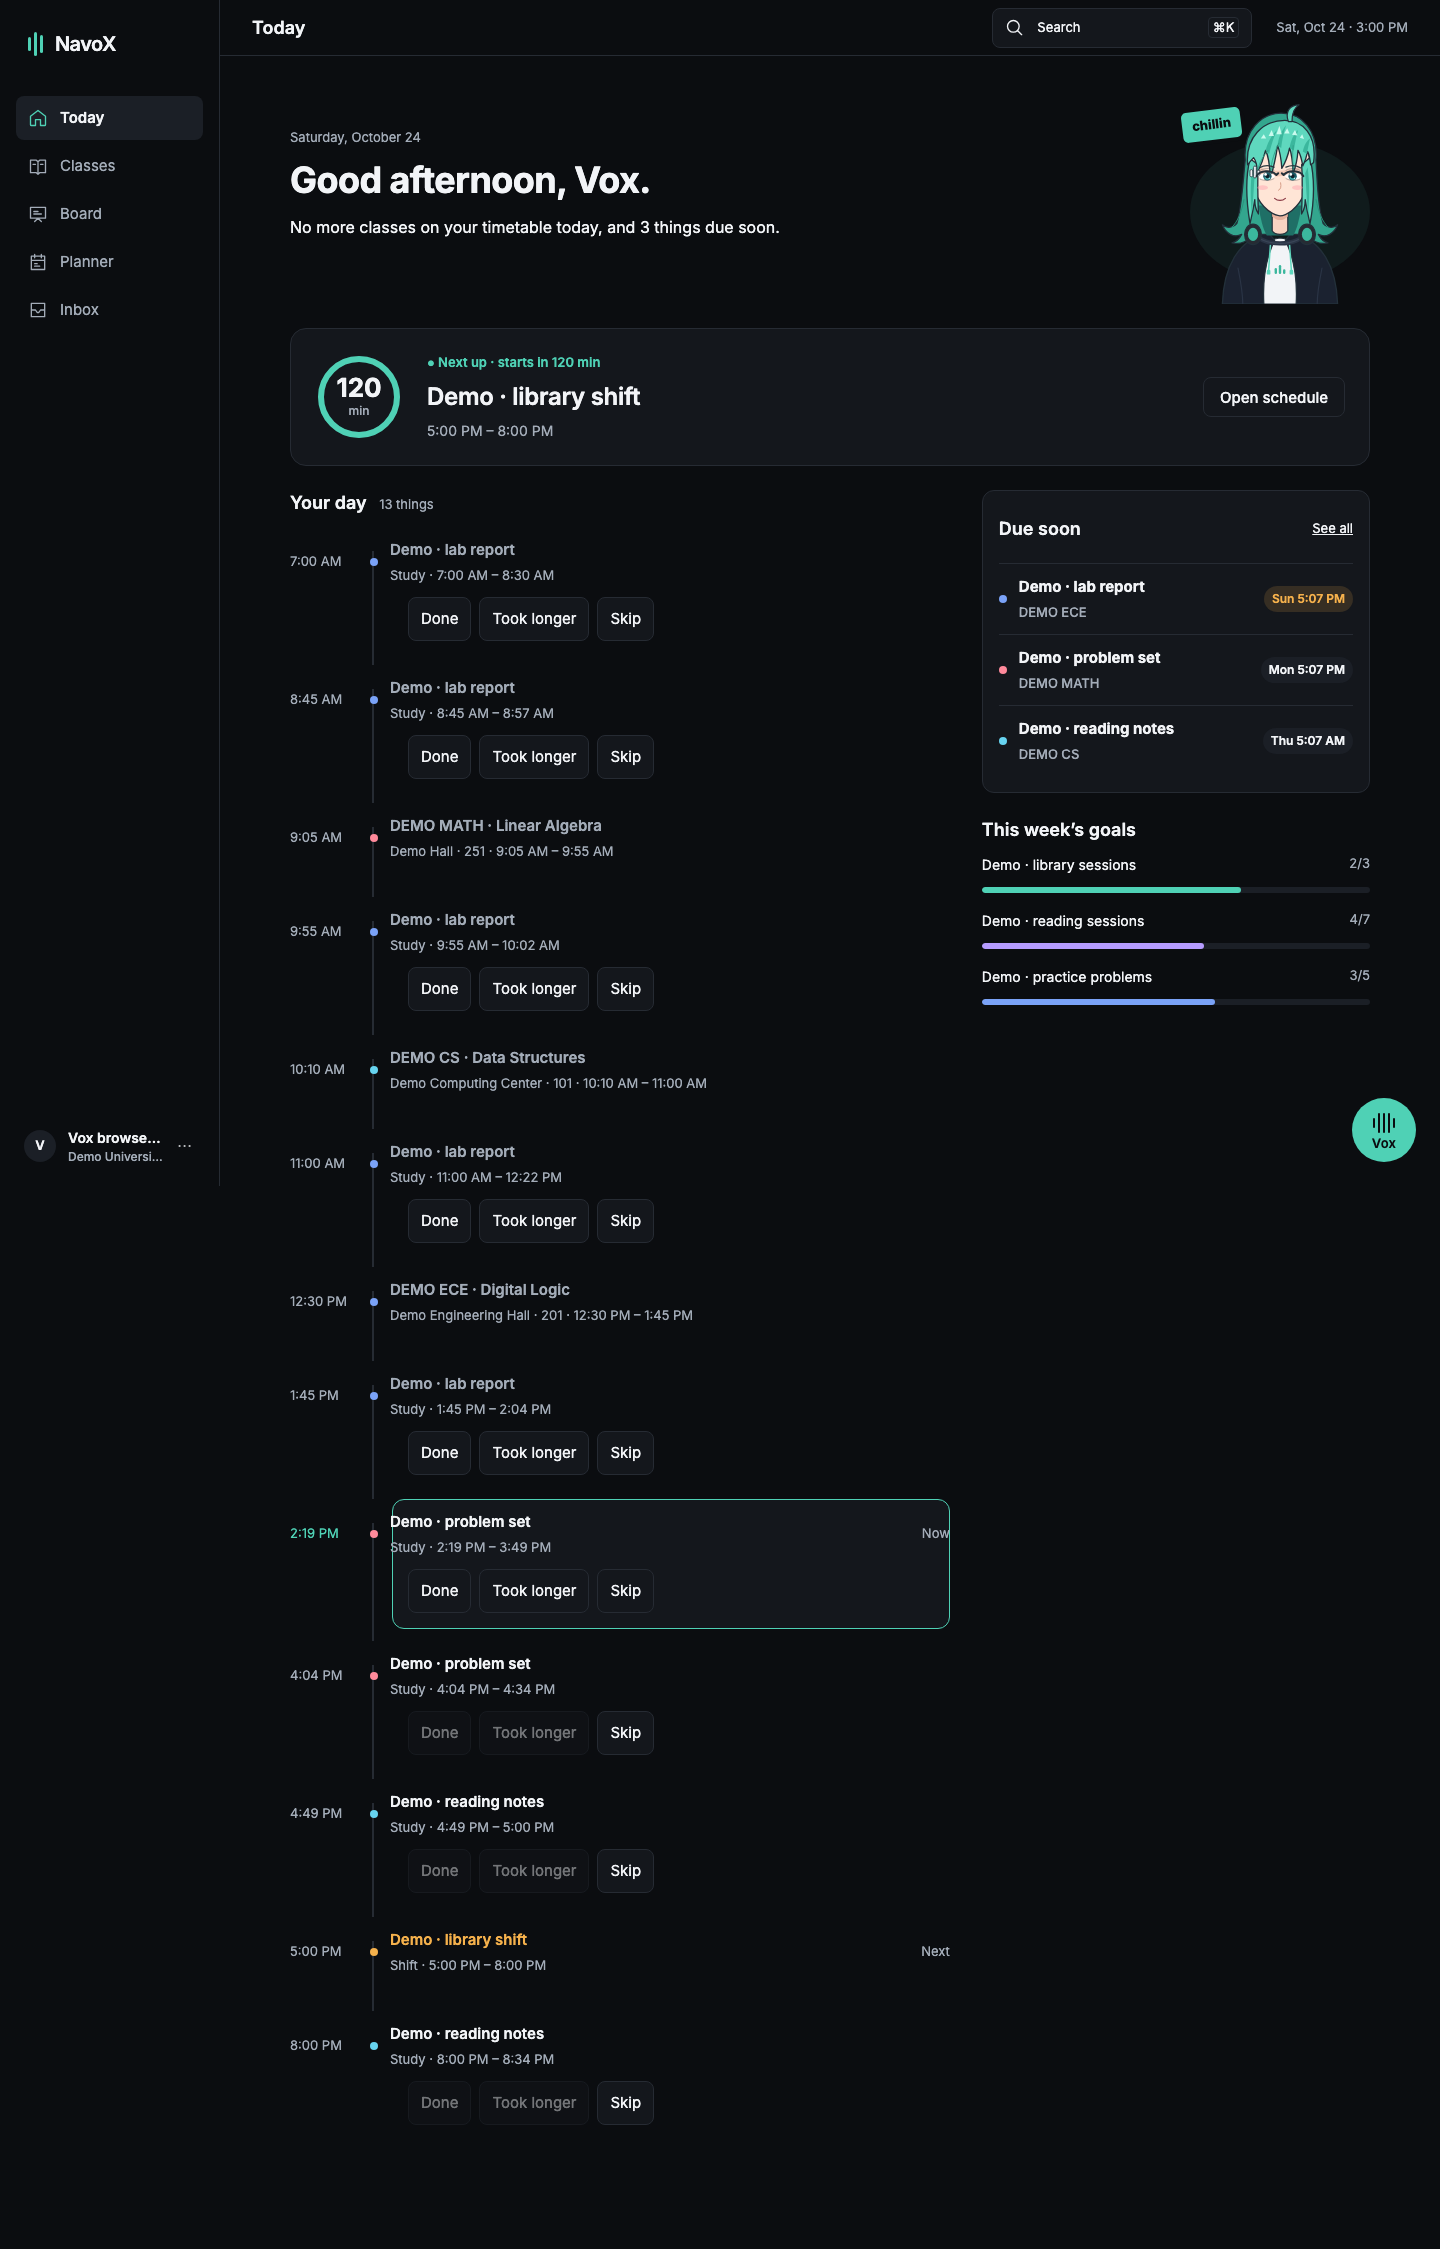
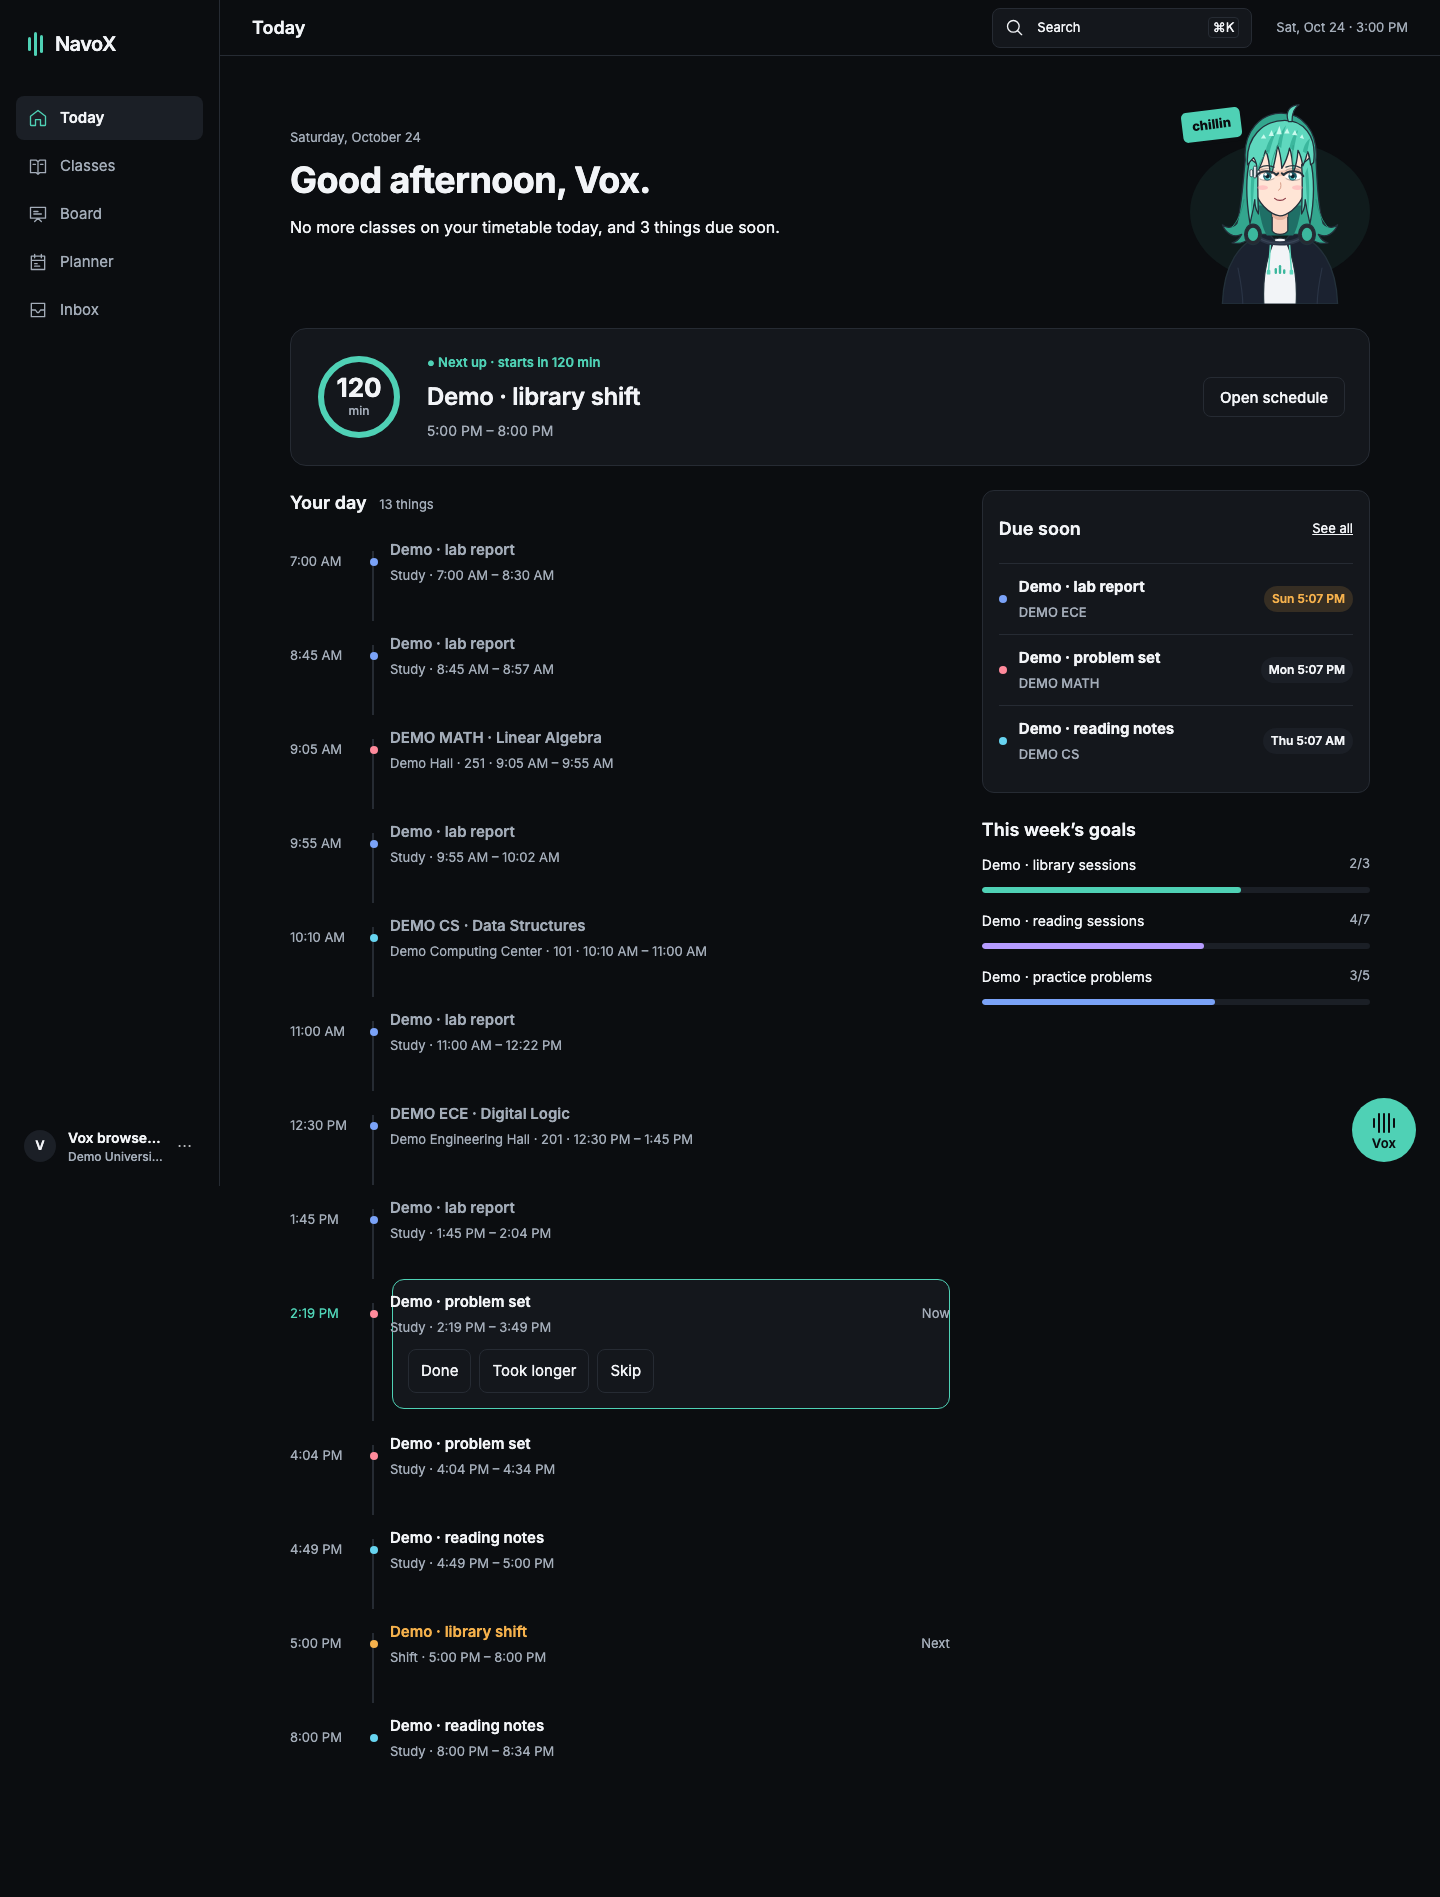
Save refreshed reference comparisons and test release evidence

diff --git a/docs/product/evidence/m2-redesign/README.md b/docs/product/evidence/m2-redesign/README.md
@@ -58,3 +58,15 @@ need side-by-side review against the 19-page source. See ../../m2-redesign-20261
   backup folder, outside the repository and evidence.
 - Follow-up: show outcome actions on the current Today study block; other blocks
   remain reachable in Planner, matching the specified compact timeline.
+
+## Final checkpoint for this implementation slice — d252bbf
+- Current-block-only Today actions and failed-load summary correction are deployed.
+- Controlled-clock desktop/mobile captures regenerated against this code release.
+- Side-by-side PNGs: comparison-welcome.png and comparison-today.png. These make
+  unfinished differences visible and are not a claim of complete visual parity.
+- Last navigation call recorded 2,147 provider tokens and $0.024008 estimated
+  provider cost; transport observed 10.350s speaking and 5.172s idle. A separate
+  zero-token provider stream remains uncertain and the transport ledger is open;
+  these are measured estimates, not a fully reconciled bill. No quota was reset.
+- Final server check found zero active test calls. Demo fixtures remain intentionally.
+- Main/production are unchanged. Work remains in draft PR #57.

diff --git a/docs/product/m2-redesign-20261024.md b/docs/product/m2-redesign-20261024.md
@@ -139,7 +139,7 @@ never claim the browser can reliably ring while closed.
 - [ ] Report any remaining spec difference; ask before building conflicting requirements.
 
 ## Current implementation checkpoint
-Test release 8c90643: shared time, revised shell, original Noa illustration,
+Test release d252bbf: shared time, revised shell, original Noa illustration,
 five-step welcome, real next-up countdown/leave-by, timeline and deadline/goal
 presentation. Retained synthetic QA data has 3 recurring classes, 1 shift,
 3 tasks, accepted study blocks and 3 goals/check-ins. Two email fixtures remain
